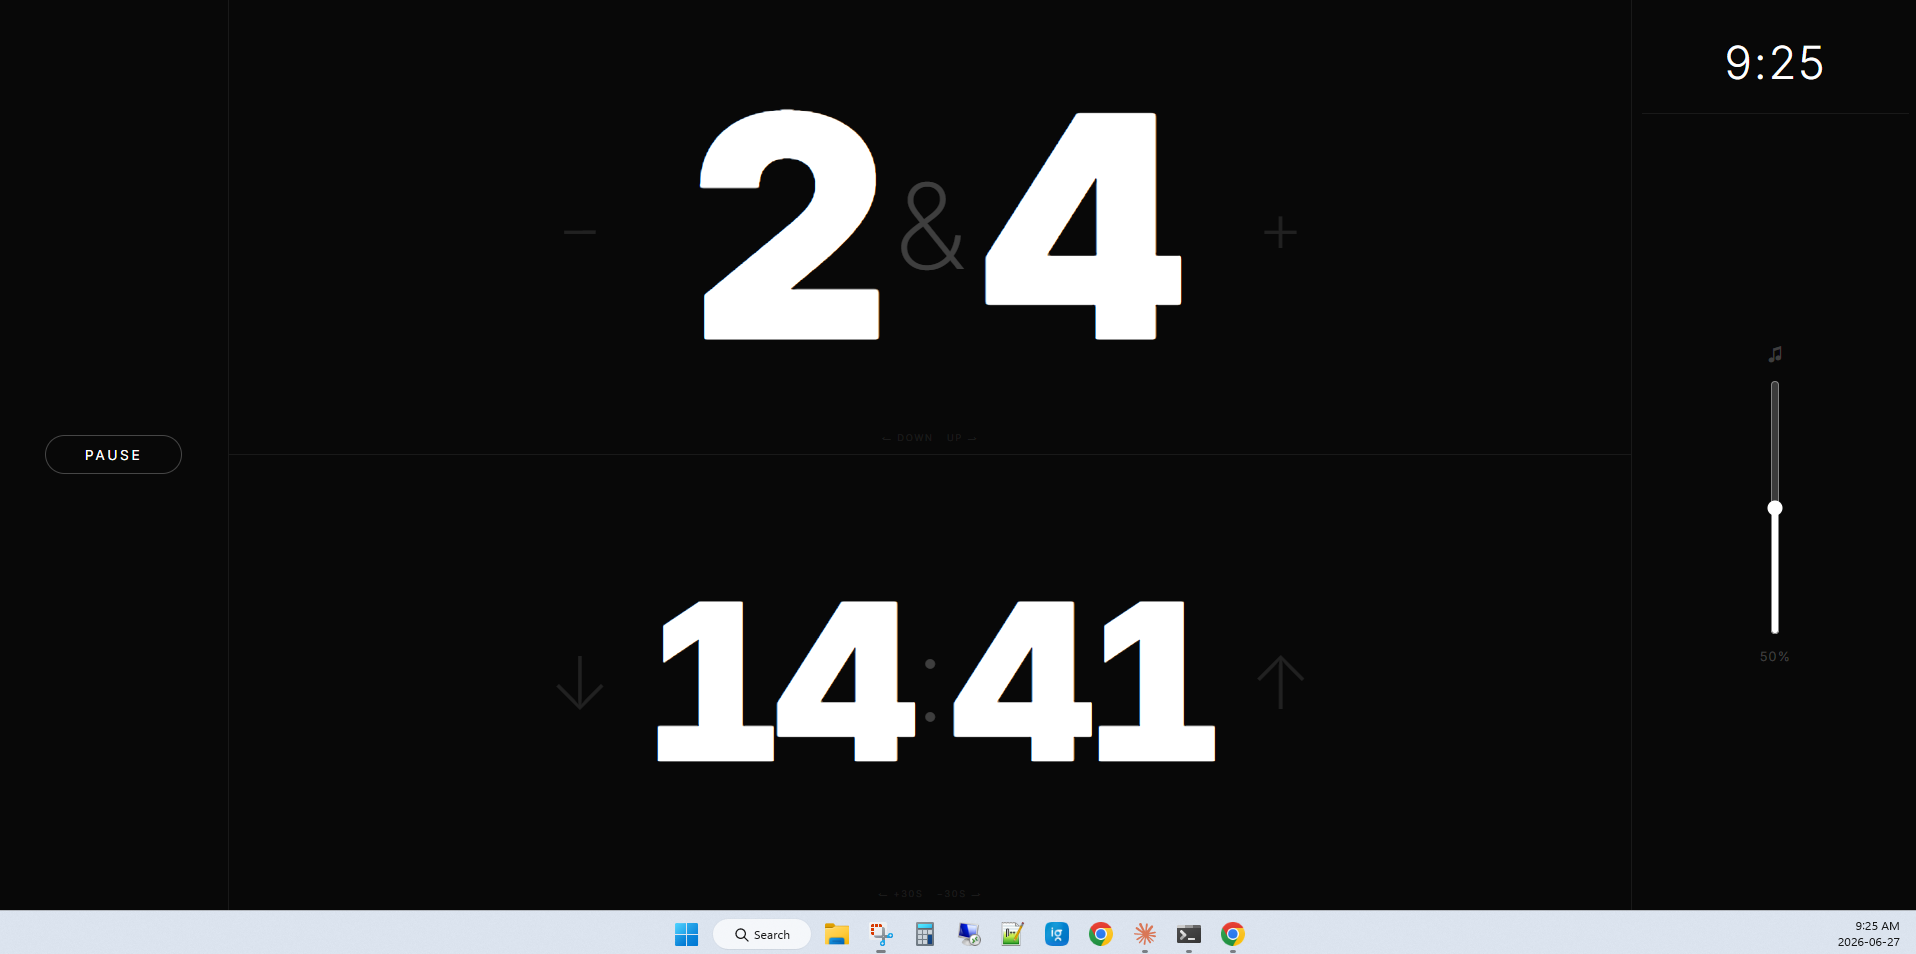
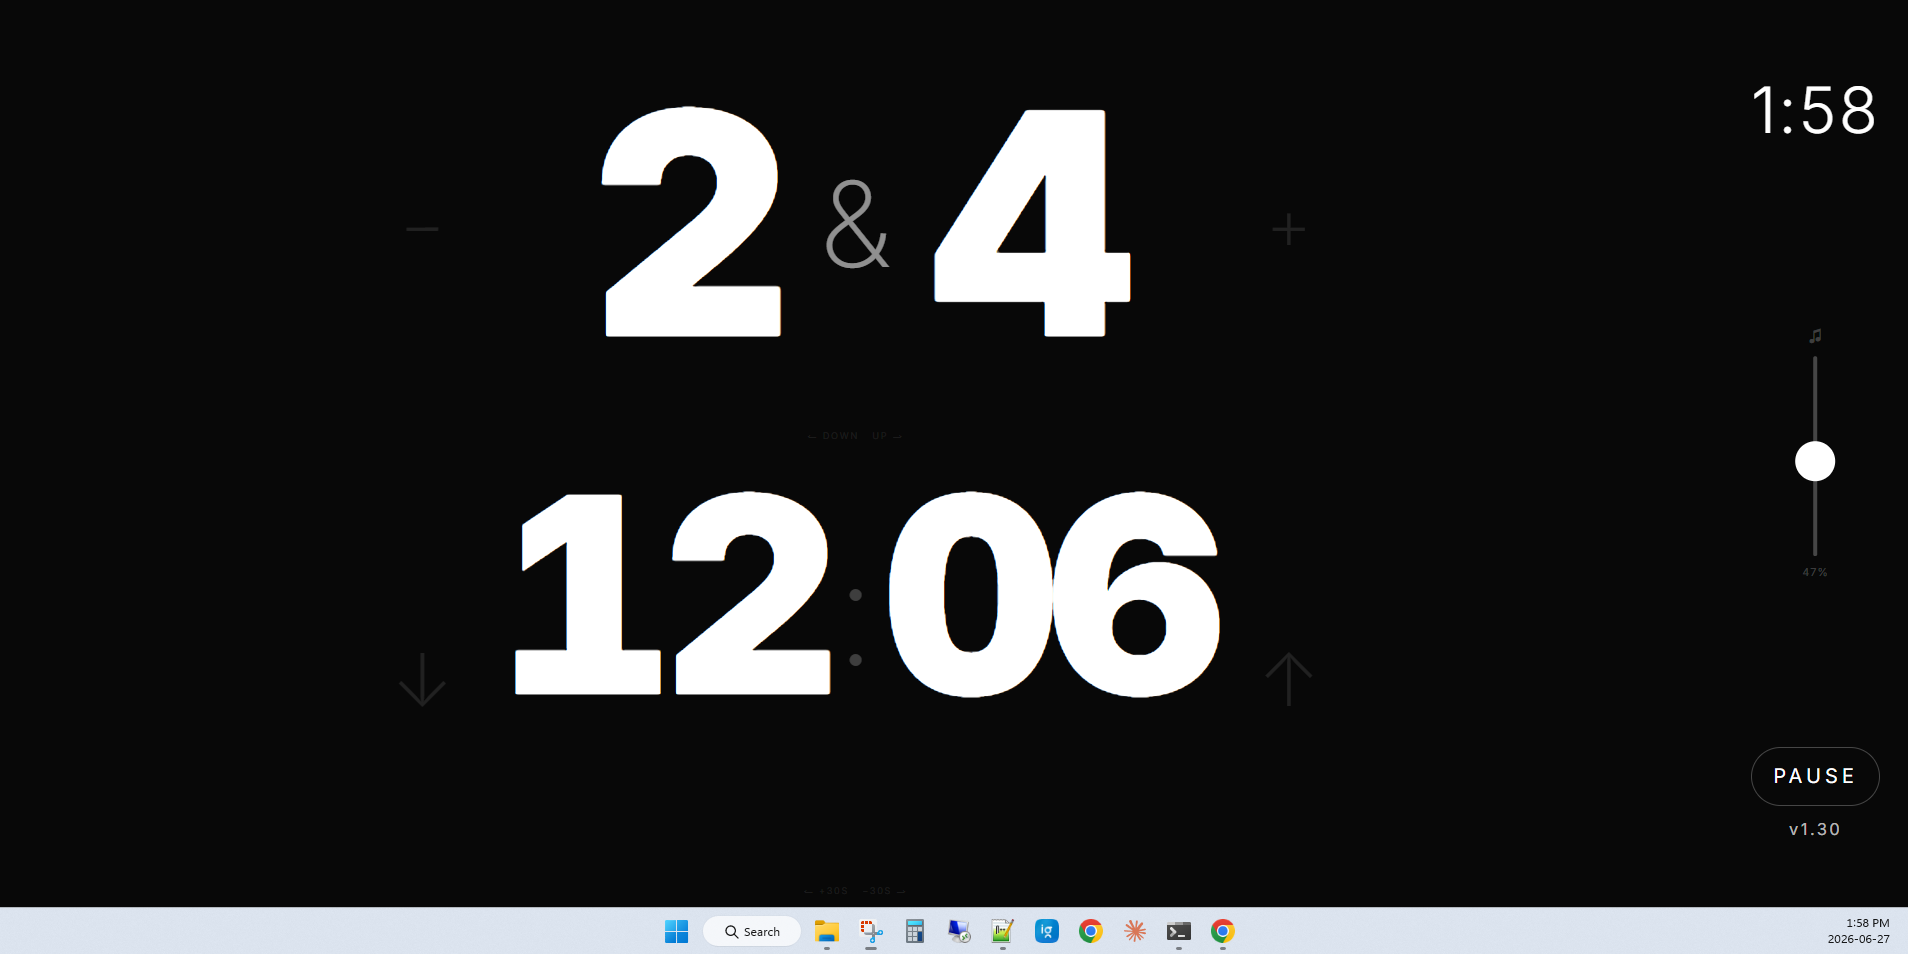
Update screenshot

diff --git a/index.html b/index.html
@@ -448,7 +448,7 @@ body.no-touch .no-touch-only{display:flex;}
 </div>
 
 <script>
-const VERSION='v1.30';
+const VERSION='v1.31';
 
 // ── DOM cache ─────────────────────────────────────────────────────
 const elBSB=document.getElementById('bSB');